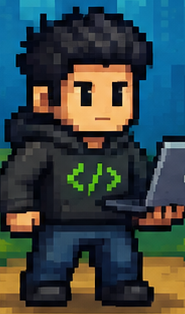
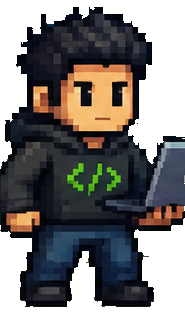
feat(web): hero sprite without background
Cut the scene out of hero.png (transparent RGBA, same 185x314 art) so
the hero stands on the battle stage and skins recolour only the dev.
The arena drops the portrait frame and shows the hero a bit larger.

diff --git a/web/src/app/globals.css b/web/src/app/globals.css
@@ -188,7 +188,7 @@ button { font-family: inherit; }
 .battle-command:disabled, .battle-potion:disabled { opacity: .5; cursor: default; }
 .battle-potions { display: grid; grid-template-columns: 1fr 1fr; gap: 8px; }
 .battle-hero { display: flex; gap: 18px; align-items: center; padding: 12px 16px; font-size: 11px; }
-.battle-hero-sprite { width: 72px; height: 122px; object-fit: cover; border: 3px solid var(--edge); }
+.battle-hero-sprite { width: 88px; height: 150px; object-fit: contain; }
 .battle-hero-bar { flex: none; width: 160px; }
 
 /* Arena: the turn plays one beat at a time (BattleScene); steps() keeps the motion pixel-y. */
